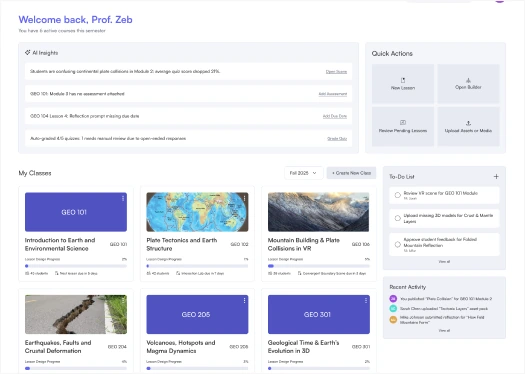
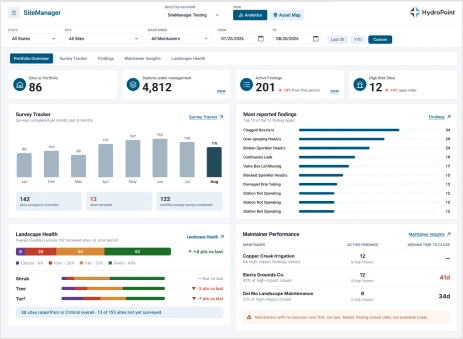
Projects updated from Figma (ImmerseVR replaces OptionsPlay), sparkle spins on scroll, sticker-style labels
Claude-Session: https://claude.ai/code/session_01WMgqFAy6XUwLNfTBoE4fLd

diff --git a/index.html b/index.html
@@ -64,12 +64,12 @@
 
     <!-- SHIPPED PROJECTS -->
     <section class="work wrap" id="work" aria-labelledby="work-title">
-      <h2 class="section-title" id="work-title"><span>Shippe<em>d</em> Projec<em>t</em>s</span><img src="assets/img/sparkle.webp" alt="" width="20" height="20"></h2>
+      <h2 class="section-title" id="work-title"><span>Shippe<em>d</em> Projec<em>t</em>s</span><img class="spin-on-scroll" src="assets/img/sparkle.webp" alt="" width="20" height="20"></h2>
 
       <a class="card card--wide" href="#" data-soon>
         <div class="card__media">
           <img class="card__bg" src="assets/img/proj-sitemanager-bg.webp" alt="" loading="lazy">
-          <img class="card__ui card__ui--sm" src="assets/img/proj-sitemanager-ui.webp" alt="SiteManager Analytics dashboard" loading="lazy">
+          <img class="card__ui card__ui--sm" src="assets/img/proj-sitemanager-ui.webp" alt="SiteManager Analytics dashboard" loading="lazy" width="463" height="339">
         </div>
         <div class="card__body">
           <div class="card__meta"><span class="card__tags">B2B SaaS<i>/</i>0–1 Analytics Experience<i>/</i>Enterprise UX<i>/</i>Data Visualization</span><img src="assets/img/logo-hydropoint.webp" alt="HydroPoint" width="101" height="28"></div>
@@ -82,6 +82,7 @@
         <a class="card" href="#" data-soon>
           <div class="card__media">
             <img class="card__bg" src="assets/img/proj-rgm-bg.webp" alt="" loading="lazy">
+            <img class="card__ui card__ui--rgm" src="assets/img/proj-rgm-ui.webp" alt="Revenue Growth Management market share planner" loading="lazy" width="513" height="366">
           </div>
           <div class="card__body">
             <div class="card__meta"><span class="card__tags">B2B SaaS<i>/</i>Enterprise Platform</span><img src="assets/img/logo-abinbev-sm.webp" alt="AB InBev" width="112" height="22"></div>
@@ -92,12 +93,12 @@
         <a class="card" href="#" data-soon>
           <div class="card__media">
             <img class="card__bg" src="assets/img/proj-options-bg.webp" alt="" loading="lazy">
-            <img class="card__ui card__ui--lg" src="assets/img/proj-options-ui.webp" alt="OptionsPlay widget library" loading="lazy">
+            <img class="card__ui card__ui--vr" src="assets/img/proj-immersevr-ui.webp" alt="ImmerseVR lesson builder in a VR headset" loading="lazy" width="523" height="319">
           </div>
           <div class="card__body">
-            <div class="card__meta"><span class="card__tags">B2B2C<i>/</i>End-to-end redesign<i>/</i>Fintech<i>/</i>Trading Workflow</span><img src="assets/img/logo-optionsplay-sm.webp" alt="OptionsPlay" width="50" height="28"></div>
-            <h3 class="card__title">Options Trading Workflow</h3>
-            <p class="card__desc">Simplifying options trading for 10K+ users, increasing new-user adoption by 25%</p>
+            <div class="card__meta"><span class="card__tags">B2B2C<i>/</i>Virtual Reality</span><img src="assets/img/logo-iu-sm.webp" alt="Indiana University" width="29" height="32"></div>
+            <h3 class="card__title">ImmerseVR</h3>
+            <p class="card__desc">Designed an end-to-end no-code VR platform for lesson building. Won 4 global awards</p>
           </div>
         </a>
       </div>

diff --git a/css/style.css b/css/style.css
@@ -10,7 +10,7 @@
   --text-muted: #555557;
   --text-meta: #6b6b6b;
   --line: #ececec;
-  --glow: #c8f7c5;
+  --glow: #a9df9c;
   --green: #039100;
   --green-dark: #1b6a2c;   /* readable link-hover green (~6.6:1 on white) */
   --bg: #fff;
@@ -46,13 +46,25 @@ ol, ul { list-style: none; margin: 0; padding: 0; }
 .sr-only { position: absolute; width: 1px; height: 1px; overflow: hidden; clip: rect(0 0 0 0); white-space: nowrap; }
 
 /* Soft mint halo around text (tagline + off-the-clock labels) */
-.glow {
+.glow {   /* sticker: a crisp mint outline with a small hard shadow, not a soft glow */
   text-shadow:
-    0 0 1px var(--glow), 0 0 2px var(--glow),
-    2px 0 2px var(--glow), -2px 0 2px var(--glow),
-    0 2px 2px var(--glow), 0 -2px 2px var(--glow),
-    2px 2px 3px var(--glow), -2px -2px 3px var(--glow),
-    2px -2px 3px var(--glow), -2px 2px 3px var(--glow);
+    2.4px 0.0px 0 var(--glow),
+    2.2px 0.9px 0 var(--glow),
+    1.7px 1.7px 0 var(--glow),
+    0.9px 2.2px 0 var(--glow),
+    0.0px 2.4px 0 var(--glow),
+    -0.9px 2.2px 0 var(--glow),
+    -1.7px 1.7px 0 var(--glow),
+    -2.2px 0.9px 0 var(--glow),
+    -2.4px 0.0px 0 var(--glow),
+    -2.2px -0.9px 0 var(--glow),
+    -1.7px -1.7px 0 var(--glow),
+    -0.9px -2.2px 0 var(--glow),
+    -0.0px -2.4px 0 var(--glow),
+    0.9px -2.2px 0 var(--glow),
+    1.7px -1.7px 0 var(--glow),
+    2.2px -0.9px 0 var(--glow),
+    1.5px 3px 0 rgba(20, 60, 25, .22);
 }
 
 /* ---------- Background grid lines ---------- */
@@ -191,6 +203,7 @@ main, .footer { position: relative; z-index: 1; }
 }
 .section-title em { font-style: italic; }
 .section-title img { width: 20px; height: 20px; }
+.spin-on-scroll { transform: rotate(var(--spin, 0deg)); will-change: transform; }
 .section-title--center { justify-content: center; letter-spacing: -.5px; }
 
 /* ---------- Shipped projects ---------- */
@@ -206,10 +219,12 @@ main, .footer { position: relative; z-index: 1; }
   object-fit: cover; border: 1px solid #f6f6f6;
   transition: transform .6s cubic-bezier(.2,.7,.2,1), box-shadow .6s;
 }
-.card__ui--sm { width: 90.8%; height: 88.2%; }                  /* 523 x 372 */
-.card__ui--lg { width: 79.5%; height: 77.5%; border-width: 4px; } /* 458 x 328 */
+.card__ui--sm { width: 80%; height: 79.9%; top: 9.7%; transform: translateX(-50%); border-color: #e4e4e4; }   /* 461 x 337, 41px from top */
+.card__ui--rgm { width: 89%; height: 86.7%; top: auto; bottom: 0; transform: translateX(-50%); border: 0; }   /* 513 x 366, sits on the bottom edge */
+.card__ui--vr { width: 90.8%; height: 75.4%; top: 12.3%; transform: translateX(-50%); border: 0; border-radius: 8px; }   /* 523 x 319 */
 .card:hover .card__bg { transform: scale(1.03); }
-.card:hover .card__ui { transform: translate(-50%, -52%); box-shadow: 0 18px 40px rgba(0,0,0,.18); }
+.card:hover .card__ui { transform: translate(-50%, -2%); box-shadow: 0 18px 40px rgba(0,0,0,.18); }
+.card:hover .card__ui--rgm { transform: translate(-50%, 0) scale(1.02); transform-origin: 50% 100%; }
 .card__body { display: flex; flex-direction: column; gap: 0; padding-top: 8px; min-width: 0; }
 .card--wide .card__body { padding: 0 0 0 clamp(16px, 2.5vw, 40px); }
 .card__meta {

diff --git a/js/main.js b/js/main.js
@@ -159,6 +159,12 @@
     document.body.classList.toggle('nav-down', r.bottom < vh - 2);
   }
 
+  // sparkle next to "Shipped Projects" turns as you scroll
+  const spinners = document.querySelectorAll('.spin-on-scroll');
+  function spin() { if (!reduceMotion) spinners.forEach((el) => el.style.setProperty('--spin', `${(window.scrollY * 0.35) % 360}deg`)); }
+  window.addEventListener('scroll', () => requestAnimationFrame(spin), { passive: true });
+  spin();
+
   let ticking = false;
   window.addEventListener('scroll', () => {
     if (ticking) return;
